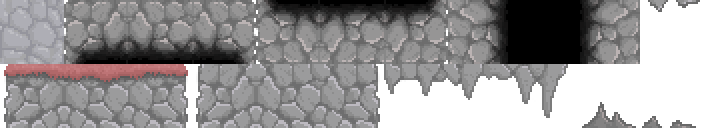
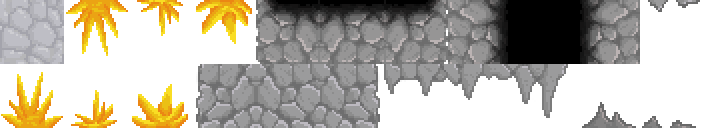
cave updates

Changed region(s): [[0.0, 0.0, 0.375, 1.0]]

diff --git a/js/Data/cave.js b/js/Data/cave.js
@@ -2,14 +2,14 @@ var x=false;
 var caveData ={
 	info:{
 		layout:[
-			[13,14,14,14,14,14,14,14,14,14,14,14,14,14,14,14,14,14,14,14,14,14,14,14,14,14,14,14,14,14,14,14,14,14,14,14,14,14,14,14,14,14,14,14,14,14,14,14,14,14,14,14,14,14,14,14,14,14,14,14,14,14,14,14,14,14,14,14,14,14,14,14,14,7],
-			[13,15,x,10,x,10,x,x,x,x,x,x,17,10,18,x,x,x,x,x,x,x,x,x,x,x,x,10,18,x,x,x,x,x,x,x,x,10,17,10,x,18,10,x,x,x,10,18,10,16,17,10,18,10,x,x,x,10,17,10,x,x,x,x,x,x,x,x,x,10,10,16,18,7],
-			[13,15,x,x,x,x,x,x,x,x,x,x,x,x,x,x,x,x,x,x,x,x,x,x,x,x,x,x,x,x,x,x,x,x,x,x,x,x,x,x,x,x,x,x,x,x,x,x,x,x,x,x,x,x,x,x,x,x,x,x,x,x,x,x,x,x,x,x,x,x,x,x,x,7],
-			[13,15,x,x,x,x,x,x,x,x,x,x,x,x,x,x,x,x,x,x,x,x,x,x,x,x,x,x,x,x,x,x,x,x,x,x,x,x,x,x,x,x,x,x,x,x,x,x,x,x,x,x,x,x,x,x,x,x,x,x,x,x,x,x,x,x,x,x,x,x,x,x,x,7],
-			[10,10,x,x,x,x,x,x,x,x,x,x,x,x,x,x,x,x,x,x,x,x,x,x,x,x,x,x,x,x,x,x,x,x,x,x,x,x,x,x,x,x,x,x,x,x,x,x,x,x,x,x,x,x,x,x,x,x,x,x,x,x,x,x,x,x,x,x,x,x,x,x,x,7],
-			[x,x,x,x,x,x,x,x,x,x,x,x,x,x,x,x,x,x,x,x,x,x,x,x,x,x,20,x,x,x,x,20,19,x,x,x,x,20,x,x,x,x,x,x,x,x,x,x,x,x,x,x,x,x,x,x,x,x,x,x,19,20,x,x,x,x,x,x,20,19,x,x,x,7],
-			[x,x,x,x,x,x,x,x,x,20,x,x,x,x,19,x,x,x,x,x,14,14,14,14,14,14,14,14,14,14,14,14,14,14,14,14,14,14,14,14,14,x,x,19,x,x,x,20,x,x,20,19,x,x,14,14,14,14,14,14,14,14,14,14,14,14,14,14,14,14,14,14,14,7],
-			[14,14,14,14,14,14,14,14,14,14,14,14,14,14,14,14,14,14,14,14,14,14,14,14,14,14,14,14,14,14,14,14,14,14,14,14,14,14,14,14,14,14,14,14,14,14,14,14,14,14,14,14,14,14,14,14,14,14,14,14,14,14,14,14,14,14,14,14,14,14,14,14,14,7,8,8,8,8,8,8,8,8,8,8,8,8,8,8]
+			[14,15,15,15,15,15,15,15,15,15,15,15,15,15,15,15,15,15,15,15,15,15,15,15,15,15,15,15,15,15,15,15,15,15,15,15,15,15,15,15,15,15,15,15,15,15,15,15,15,15,15,15,15,15,15,15,15,15,15,15,15,15,15,15,15,15,15,15,15,15,15,15,15,7],
+			[14,16,x,10,x,2,x,10,x,14,16,x,18,10,19,x,x,1,3,x,x,14,16,x,x,3,x,10,19,x,x,1,2,x,x,2,x,10,18,10,x,19,10,3,x,x,10,19,10,17,14,16,19,10,1,x,x,10,18,10,3,x,x,2,1,x,3,x,x,10,10,17,19,7],
+			[14,16,x,x,x,x,x,x,x,x,x,x,x,x,x,x,x,x,x,x,x,x,x,x,x,x,x,x,x,x,x,x,x,x,x,x,x,x,x,x,x,x,x,x,x,x,x,x,x,x,x,x,x,x,x,x,x,x,x,x,x,x,x,x,x,x,x,x,x,x,x,x,x,7],
+			[14,16,x,x,x,x,x,x,x,x,x,x,x,x,x,x,x,x,x,x,x,x,x,x,x,x,x,x,x,x,x,x,x,x,x,x,x,x,x,x,x,x,x,x,x,x,x,x,x,x,x,x,x,x,x,x,x,x,x,x,x,x,x,x,x,x,x,x,x,x,x,x,x,7],
+			[10,10,x,x,x,x,x,x,x,x,x,x,x,x,x,x,x,x,x,x,x,x,x,x,x,x,x,x,x,x,x,x,x,x,14,16,x,x,x,x,x,x,x,x,x,x,x,x,x,x,x,x,x,x,x,x,x,x,x,x,x,x,x,x,x,x,x,x,x,x,x,x,x,7],
+			[x,x,x,x,x,x,x,x,x,14,16,x,x,x,x,x,x,x,x,x,x,14,16,x,11,x,21,x,x,13,x,21,20,x,14,16,x,21,x,12,x,x,x,x,x,x,x,x,x,x,x,x,x,x,x,x,13,x,x,x,20,21,x,x,14,16,x,11,21,20,x,x,x,7],
+			[x,x,x,20,21,x,x,11,x,14,16,x,12,x,20,x,x,13,x,x,15,15,15,15,15,15,15,15,15,15,15,15,15,15,15,15,15,15,15,15,15,x,x,20,x,12,x,21,14,16,21,20,x,x,15,15,15,15,15,15,15,15,15,15,15,15,15,15,15,15,15,15,15,7],
+			[15,15,15,15,15,15,15,15,15,15,15,15,15,15,15,15,15,15,15,15,15,15,15,15,15,15,15,15,15,15,15,15,15,15,15,15,15,15,15,15,15,15,15,15,15,15,15,15,15,15,15,15,15,15,15,15,15,15,15,15,15,15,15,15,15,15,15,15,15,15,15,15,15,7,8,8,8,8,8,8,8,8,8,8,8,8,8,8]
 			
 			
 		],
@@ -77,6 +77,11 @@ var caveData ={
 			{
 				fps:1,
 				cycle:false,
+				frames:[{width:64, height:64, startX:0, startY:64}]
+			},
+			{
+				fps:1,
+				cycle:false,
 				frames:[{width:64, height:64, startX:64, startY:64}]
 			},
 			{
@@ -123,11 +128,6 @@ var caveData ={
 				fps:1,
 				cycle:false,
 				frames:[{width:64, height:64, startX:640, startY:64}]
-			},
-			{
-				fps:1,
-				cycle:false,
-				frames:[{width:64, height:64, startX:704, startY:64}]
 			}
 		]
 	}
@@ -152,14 +152,14 @@ var caveData ={
 		var caveHitData={
 			info:{
 				layout:[
-					[13,14,14,14,14,14,14,14,14,14,14,14,14,14,14,14,14,14,14,14,14,14,14,14,14,14,14,14,14,14,14,14,14,14,14,14,14,14,14,14,14,14,14,14,14,14,14,14,14,14,14,14,14,14,14,14,14,14,14,14,14,14,14,14,14,14,14,14,14,14,14,14,14,7],
-				[13,15,x,x,x,x,x,x,x,x,x,x,x,x,x,x,x,x,x,x,x,x,x,x,x,x,x,x,x,x,x,x,x,x,x,x,x,x,x,x,x,x,x,x,x,x,x,x,x,x,x,x,x,x,x,x,x,x,x,x,x,x,x,x,x,x,x,x,x,x,x,x,x,7],
-				[13,15,x,x,x,x,x,x,x,x,x,x,x,x,x,x,x,x,x,x,x,x,x,x,x,x,x,x,x,x,x,x,x,x,x,x,x,x,x,x,x,x,x,x,x,x,x,x,x,x,x,x,x,x,x,x,x,x,x,x,x,x,x,x,x,x,x,x,x,x,x,x,x,7],
-				[13,15,x,x,x,x,x,x,x,x,x,x,x,x,x,x,x,x,x,x,x,x,x,x,x,x,x,x,x,x,x,x,x,x,x,x,x,x,x,x,x,x,x,x,x,x,x,x,x,x,x,x,x,x,x,x,x,x,x,x,x,x,x,x,x,x,x,x,x,x,x,x,x,7],
-				[x,x,x,x,x,x,x,x,x,x,x,x,x,x,x,x,x,x,x,x,x,x,x,x,x,x,x,x,x,x,x,x,x,x,x,x,x,x,x,x,x,x,x,x,x,x,x,x,x,x,x,x,x,x,x,x,x,x,x,x,x,x,x,x,x,x,x,x,x,x,x,x,x,7],
-				[x,x,x,x,x,x,x,x,x,x,x,x,x,x,x,x,x,x,x,x,x,x,x,x,x,x,x,x,x,x,x,x,x,x,x,x,x,x,x,x,x,x,x,x,x,x,x,x,x,x,x,x,x,x,x,x,x,x,x,x,x,x,x,x,x,x,x,x,x,x,x,x,x,7],
-				[x,x,x,x,x,x,x,x,x,x,x,x,x,x,x,x,x,x,x,x,14,14,14,14,14,14,14,14,14,14,14,14,14,14,14,14,14,14,14,14,14,x,x,x,x,x,x,x,x,x,x,x,x,x,14,14,14,14,14,14,14,14,14,14,14,14,14,14,14,14,14,14,14,7],
-				[14,14,14,14,14,14,14,14,14,14,14,14,14,14,14,14,14,14,14,14,14,14,14,14,14,14,14,14,14,14,14,14,14,14,14,14,14,14,14,14,14,14,14,14,14,14,14,14,14,14,14,14,14,14,14,14,14,14,14,14,14,14,14,14,14,14,14,14,14,14,14,14,14,7,8,8,8,8,8,8,8,8,8,8,8,8,8,8]	
+				[13,14,14,14,14,14,14,14,14,14,14,14,14,14,14,14,14,14,14,14,14,14,14,14,14,14,14,14,14,14,14,14,14,14,14,14,14,14,14,14,14,14,14,14,14,14,14,14,14,14,14,14,14,14,14,14,14,14,14,14,14,14,14,14,14,14,14,14,14,14,14,14,14,7],
+			[13,15,x,x,x,x,x,x,x,13,15,x,x,x,x,x,x,x,x,x,x,13,15,x,x,x,x,x,x,x,x,x,x,x,x,x,x,x,x,x,x,x,x,x,x,x,x,x,x,x,13,15,x,x,x,x,x,x,x,x,x,x,x,x,x,x,x,x,x,x,x,x,x,7],
+			[13,15,x,x,x,x,x,x,x,x,x,x,x,x,x,x,x,x,x,x,x,x,x,x,x,x,x,x,x,x,x,x,x,x,x,x,x,x,x,x,x,x,x,x,x,x,x,x,x,x,x,x,x,x,x,x,x,x,x,x,x,x,x,x,x,x,x,x,x,x,x,x,x,7],
+			[13,15,x,x,x,x,x,x,x,x,x,x,x,x,x,x,x,x,x,x,x,x,x,x,x,x,x,x,x,x,x,x,x,x,x,x,x,x,x,x,x,x,x,x,x,x,x,x,x,x,x,x,x,x,x,x,x,x,x,x,x,x,x,x,x,x,x,x,x,x,x,x,x,7],
+			[x,x,x,x,x,x,x,x,x,x,x,x,x,x,x,x,x,x,x,x,x,x,x,x,x,x,x,x,x,x,x,x,x,x,13,15,x,x,x,x,x,x,x,x,x,x,x,x,x,x,x,x,x,x,x,x,x,x,x,x,x,x,x,x,x,x,x,x,x,x,x,x,x,7],
+			[x,x,x,x,x,x,x,x,x,13,15,x,x,x,x,x,x,x,x,x,x,13,15,x,x,x,x,x,x,x,x,x,x,x,13,15,x,x,x,x,x,x,x,x,x,x,x,x,x,x,x,x,x,x,x,x,x,x,x,x,x,x,x,x,13,15,x,x,x,x,x,x,x,7],
+			[x,x,x,x,x,x,x,x,x,13,15,x,x,x,x,x,x,x,x,x,14,14,14,14,14,14,14,14,14,14,14,14,14,14,14,14,14,14,14,14,14,x,x,x,x,x,x,x,13,15,x,x,x,x,14,14,14,14,14,14,14,14,14,14,14,14,14,14,14,14,14,14,14,7],
+			[14,14,14,14,14,14,14,14,14,14,14,14,14,14,14,14,14,14,14,14,14,14,14,14,14,14,14,14,14,14,14,14,14,14,14,14,14,14,14,14,14,14,14,14,14,14,14,14,14,14,14,14,14,14,14,14,14,14,14,14,14,14,14,14,14,14,14,14,14,14,14,14,14,7,8,8,8,8,8,8,8,8,8,8,8,8,8,8]
 				],
 				src:`images/TileArt.png`,
 			},
